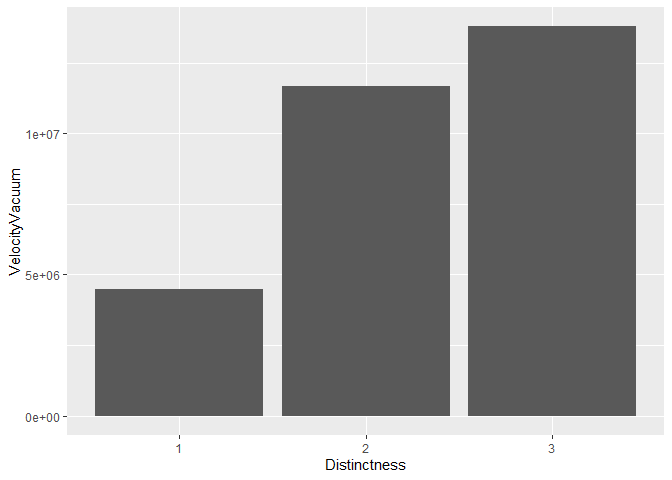
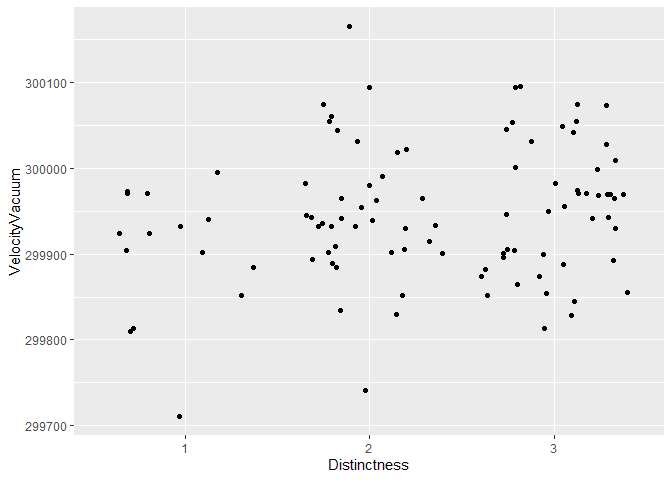
Revised c02

diff --git a/challenges/c02-michelson-assignment.md b/challenges/c02-michelson-assignment.md
@@ -158,13 +158,14 @@ df_q1 <-
 | 2            |  39 |     299858.5 |
 | 1            |  15 |     299808.0 |
 
-**Observations**: - Write your observations here! - Generally, as
-distinctness of the images decreases, mean velocity of light decreases
-as well. The difference between distinctnesses of 3 and 1 is noticably
-less than the difference between 2 and 1. - Why might your table differ
-from Michelson’s? - It looks like there is a difference with the
-significant figures in Michelson’s data, my table does not have a limit
-on significant figures and Michelson’s has 5.
+**Observations**: - Write your observations here! - Generally there is
+not a meaningful difference between the mean velocity values as
+distinctness changes. The difference values between distinctness of 1-3
+and 2-3 are quite similar at 53.7 and 50.8 respectively.
+
+Why might your table differ from Michelson’s? - It looks like there is a
+difference with the significant figures in Michelson’s data, my table
+does not have a limit on significant figures and Michelson’s has 5.
 
 The `Velocity` values in the dataset are the speed of light *in air*;
 Michelson introduced a couple of adjustments to estimate the speed of
@@ -322,9 +323,13 @@ df_q2 %>%
 **Observations**: Similarities - The mean for both the simulated and
 real measurements are the same, so are the positive and negative error
 values. Certain means for each day are similar between the graphs, such
-as on Jun 16. Differences - the line that represents the mean for each
-day as well as the data point for each day are different and differ from
-the real measurements almost randomly.
+as on Jun 16.
+
+Differences - The real mean values for each day tend to have more
+“dramatic” spikes (ones that fall outside of the control limits), as
+this graph has three spikes of that nature, while the simulated graph
+only has two. The simulated graph also tends to have more individual
+data points that lay close to the median line than the real data.
 
 ### **q5** You have access to a few other variables. Construct a **at least three** visualizations of `VelocityVacuum` against these other factors. Are there other patterns in the data that might help explain the difference between Michelson’s estimate and `LIGHTSPEED_VACUUM`?
 
@@ -336,7 +341,7 @@ df_michelson <-
 ggplot(
   data = df_michelson
 ) + 
-  geom_line(
+  geom_point(
     mapping = aes(
       x = Temp,
       y = VelocityVacuum
@@ -348,17 +353,16 @@ ggplot(
 
 **Observations**:
 
-- The velocity in a vacuum overall trends upwards as temperature
-  increases, however there is much variation in the graph. This can help
-  explain the difference between the LIGHTSPEED_VACUUM and Michelson’s
-  data as temperature changes, as well as other possible instrumentation
-  errors or atmospheric effects.
+- The velocity in a vacuum overall slight trends upwards as temperature
+  increases, however there is much variation in the graph. This is not a
+  possible explanation for the difference between LIGHTSPEED_VACUUM and
+  Michelson’s data as the data varies greatly.
 
 ``` r
 ggplot(
   data = df_michelson
-) + 
-  geom_col( 
+) +
+  geom_jitter(
     mapping = aes(
       x = Distinctness,
       y = VelocityVacuum,
@@ -370,7 +374,7 @@ ggplot(
 
 **Observations**:
 
-- This graph shows that there is overall an upward trend between
+- This graph shows that there is overall a slight upward trend between
   velocity in a vacuum and distinctness, however the difference between
   2 and 3 distinctness is significantly less than the difference from 1
   to 2. This could potentially lead to fluctuations in Michelson’s data,
